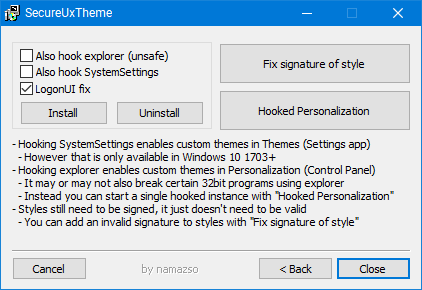
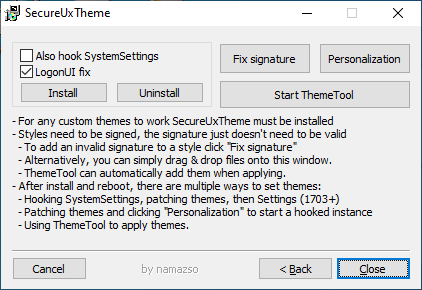
update screenshots

diff --git a/README.md b/README.md
@@ -48,6 +48,10 @@ Installer:
 
 ![Installer Screenshot](resources/screenshot_setup.png)
 
+ThemeTool:
+
+![ThemeTool Screenshot](resources/screenshot_themetool.png)
+
 This is only a tool for enabling custom themes, no actual visual changes will be made.
 Regardless, here's a cool theme for illustration:
 
